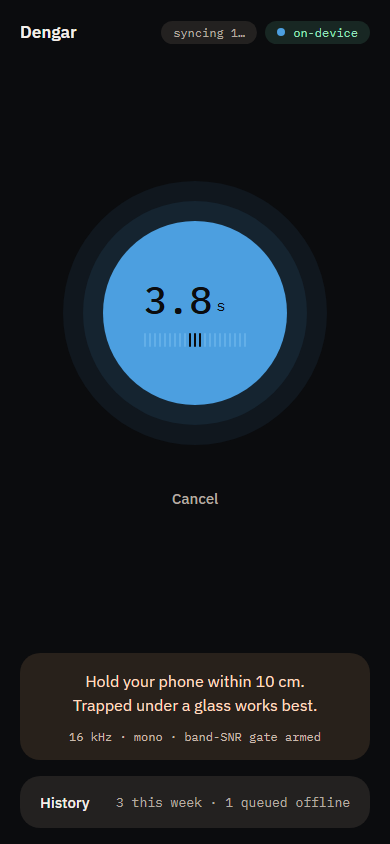
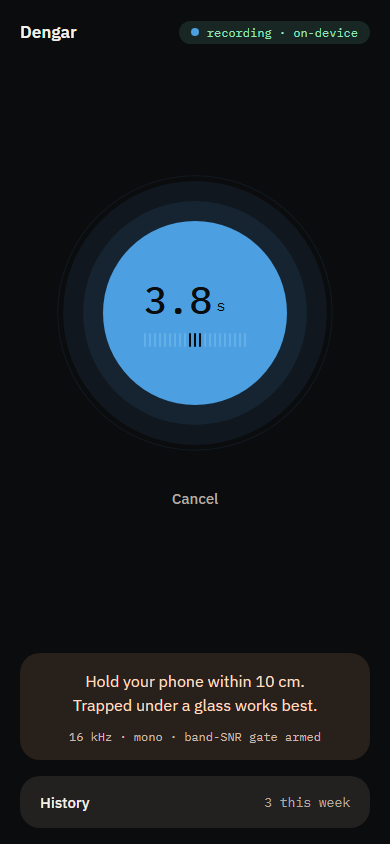
slice 12 fix 1: pulse rings actually render (className dropped on Animated.View), spacing to scale
react-native-web silently drops className on a reanimated Animated.View, so both
breathing rims were 0x0 with no border — the animation ran on nothing, and slice
12 had also removed the static border-line rings, leaving no rim in either motion
mode. Geometry, radius, border and positioning moved onto the style prop (the
workaround already documented for the drench in result.tsx), with the border
colour read through the tailwind.tokens.js import so no hex enters the file.

Measured: both rims 264x264, borderTopWidth 1px, borderTopColor rgb(76,159,224),
borderRadius 132px, position absolute. Motion on: rim1 opacity 0.3286 @ scale
1.007 vs 0.0465 @ scale 1.104 seven hundred ms later. prefers-reduced-motion:
reduce holds a single static rim at rest opacity (rim1 0.3500 scale 1, rim2 0),
byte-identical when sampled 1.2 s apart — which is exactly what design-system.md
Motion specifies.

Also: history's queued pill py-[2px] -> py-1, the last off-base-4 value in the
citizen set.

diff --git a/app/src/components/PulseRings.tsx b/app/src/components/PulseRings.tsx
@@ -10,6 +10,8 @@ import Animated, {
   withTiming,
 } from 'react-native-reanimated';
 
+import tokens from '../../tailwind.tokens.js';
+
 /**
  * The Listen instrument. Warm-board geometry (design-system.md §Warm revision): the hairline rings
  * became two FILLED halo rings (`halo-outer` 264 / `halo-inner` 224) around a saturated `primary`
@@ -32,6 +34,17 @@ type Props = {
 };
 
 const RING = 264;
+
+// Token value read through the single palette source, so no hex literal enters a screen file.
+const RIM = {
+  position: 'absolute' as const,
+  width: RING,
+  height: RING,
+  borderRadius: RING / 2,
+  borderWidth: 1,
+  borderColor: tokens.colors.primary,
+  pointerEvents: 'none' as const,
+};
 
 export function PulseRings({
   mode,
@@ -91,15 +104,12 @@ export function PulseRings({
         style={{ pointerEvents: 'none' }}
         className="absolute h-[224px] w-[224px] rounded-full bg-halo-inner"
       />
-      {/* breathing rims — drawn over the halos so they read as they expand past the outer edge */}
-      <Animated.View
-        style={[ring1, { pointerEvents: 'none' }]}
-        className="absolute h-[264px] w-[264px] rounded-full border border-primary"
-      />
-      <Animated.View
-        style={[ring2, { pointerEvents: 'none' }]}
-        className="absolute h-[264px] w-[264px] rounded-full border border-primary"
-      />
+      {/* breathing rims — drawn over the halos so they read as they expand past the outer edge.
+          Geometry lives in `style`, NOT className: react-native-web silently drops className on a
+          reanimated Animated.View (same trap documented at result.tsx's drench), which left both
+          rims at 0×0 with no border — an animation running on nothing. */}
+      <Animated.View style={[ring1, RIM]} />
+      <Animated.View style={[ring2, RIM]} />
       <Pressable
         onPress={onPress}
         disabled={disabled}

diff --git a/app/src/app/history.tsx b/app/src/app/history.tsx
@@ -104,7 +104,7 @@ function Row({
               {aedes ? 'Aedes' : 'Not Aedes'}
             </Text>
             {!detection.synced && (
-              <View className="ml-2 rounded-pill bg-surface-raised px-2 py-[2px]">
+              <View className="ml-2 rounded-pill bg-surface-raised px-2 py-1">
                 <Text className="font-mono text-[12px] text-caution">queued</Text>
               </View>
             )}
